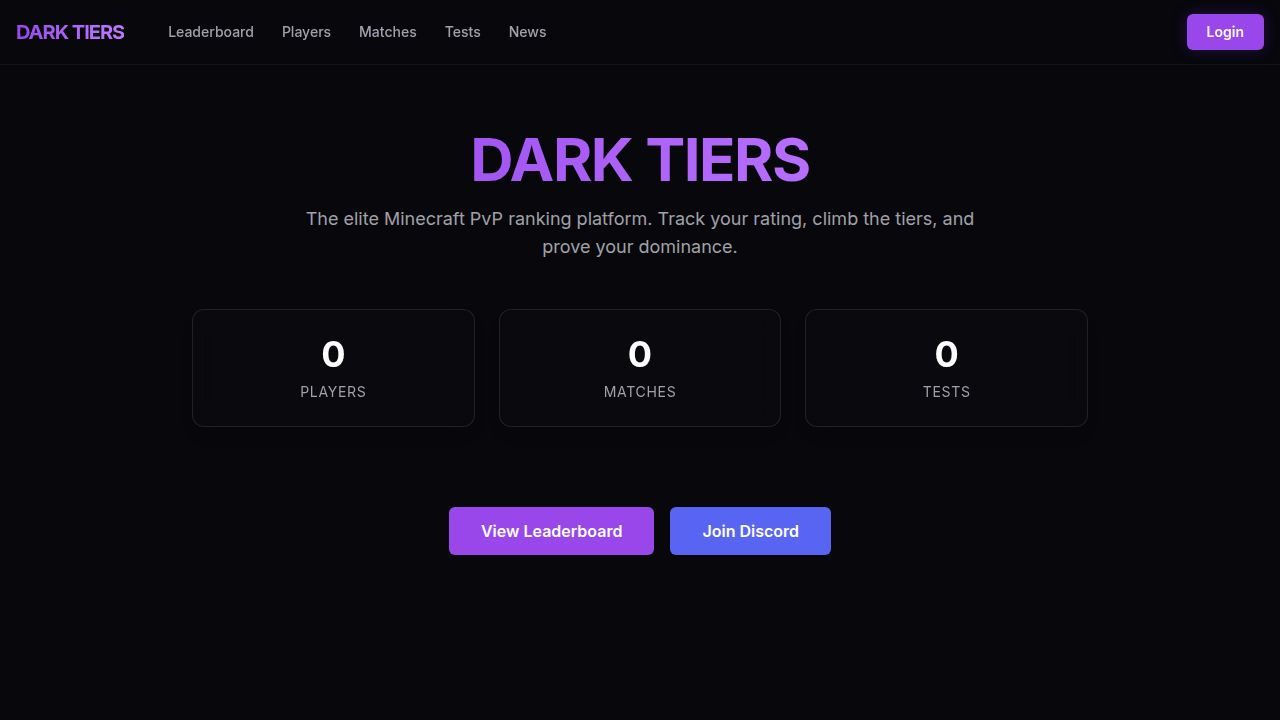
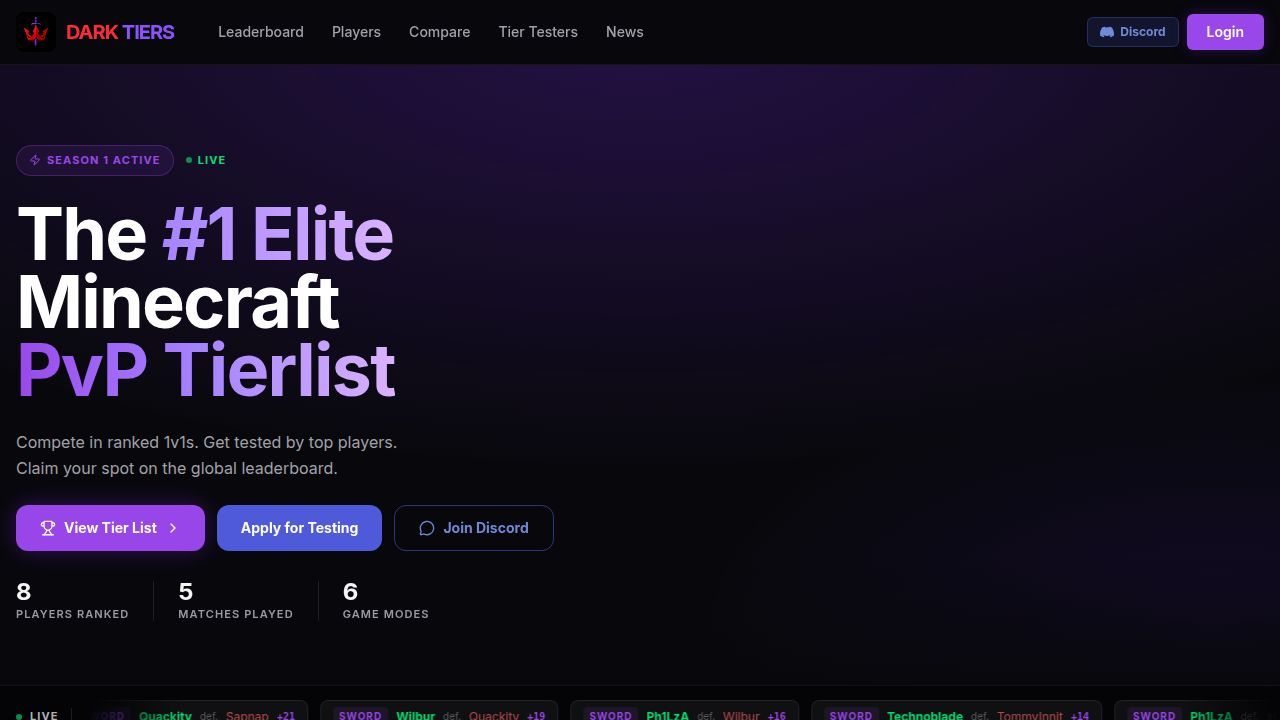
Improve navigation, player visibility, and comparison features on the platform
Fix login page loading issues, update user roles for panel access, show all registered players, add a "Post Match" button to the leaderboard for staff, and expand player comparison stats.

Replit-Commit-Author: Agent
Replit-Commit-Session-Id: a8362994-371c-4b95-bb02-1b18eae9432b
Replit-Commit-Checkpoint-Type: full_checkpoint
Replit-Commit-Event-Id: 5d057f84-10ec-4e45-b045-3c5f8ef11e38
Replit-Commit-Screenshot-Url: https://storage.googleapis.com/screenshot-production-us-central1/2faf6743-2e21-4c0f-ada4-a5486e8c2a09/a8362994-371c-4b95-bb02-1b18eae9432b/W4jEmzD
Replit-Helium-Checkpoint-Created: true

diff --git a/artifacts/dark-tiers/src/pages/leaderboard.tsx b/artifacts/dark-tiers/src/pages/leaderboard.tsx
@@ -1,13 +1,104 @@
 import { useState, Fragment } from "react";
-import { useGetLeaderboard, useListGamemodes } from "@workspace/api-client-react";
-import { useQuery } from "@tanstack/react-query";
+import { useGetLeaderboard, useListGamemodes, useGetMe, useCreateMatch, useListPlayers } from "@workspace/api-client-react";
+import { useQuery, useQueryClient } from "@tanstack/react-query";
 import { Link } from "wouter";
 import { TierBadge } from "@/components/ui/tier-badge";
 import { Input } from "@/components/ui/input";
 import { Skeleton } from "@/components/ui/skeleton";
-import { Search } from "lucide-react";
+import { Button } from "@/components/ui/button";
+import { Select, SelectContent, SelectItem, SelectTrigger, SelectValue } from "@/components/ui/select";
+import { Search, Plus, X, Swords } from "lucide-react";
 import { motion, AnimatePresence } from "framer-motion";
 import { GamemodeIcon, trophyImg } from "@/lib/gamemode-icons";
+
+const ROLE_RANK: Record<string, number> = { user: 0, tester: 1, moderator: 2, admin: 3, owner: 4 };
+function isStaff(role: string) { return (ROLE_RANK[role] ?? 0) >= 1; }
+
+function PostMatchModal({ onClose }: { onClose: () => void }) {
+  const { data: players } = useListPlayers({ limit: 200 });
+  const { data: gamemodes } = useListGamemodes();
+  const createMatch = useCreateMatch();
+  const qc = useQueryClient();
+  const [form, setForm] = useState({ gamemodeId: "", player1Id: "", player2Id: "", winnerId: "", score: "" });
+  const [creating, setCreating] = useState(false);
+  const [error, setError] = useState<string | null>(null);
+  const [done, setDone] = useState(false);
+
+  const eligible = [form.player1Id, form.player2Id].filter(Boolean).map(id => players?.players?.find(p => p.id === +id)).filter(Boolean);
+
+  const handleSubmit = async (e: React.FormEvent) => {
+    e.preventDefault();
+    if (!form.gamemodeId || !form.player1Id || !form.player2Id || !form.winnerId || !form.score) {
+      setError("All fields are required."); return;
+    }
+    setCreating(true); setError(null);
+    try {
+      await createMatch.mutateAsync({ data: { gamemodeId: +form.gamemodeId, player1Id: +form.player1Id, player2Id: +form.player2Id, winnerId: +form.winnerId, score: form.score } });
+      qc.invalidateQueries();
+      setDone(true);
+      setTimeout(onClose, 1200);
+    } catch (err: any) {
+      setError(err.message ?? "Failed to create match.");
+    } finally { setCreating(false); }
+  };
+
+  return (
+    <div className="fixed inset-0 z-[999] flex items-center justify-center p-4">
+      <div className="absolute inset-0 bg-black/70 backdrop-blur-sm" onClick={onClose} />
+      <motion.div
+        initial={{ opacity: 0, scale: 0.95, y: 16 }}
+        animate={{ opacity: 1, scale: 1, y: 0 }}
+        exit={{ opacity: 0, scale: 0.95, y: 8 }}
+        transition={{ duration: 0.2 }}
+        className="relative z-10 glass-card border border-white/10 rounded-2xl p-6 w-full max-w-lg"
+      >
+        <div className="flex items-center justify-between mb-5">
+          <div className="flex items-center gap-2">
+            <Swords className="w-5 h-5 text-primary" />
+            <h2 className="text-lg font-black text-white">Post Match Result</h2>
+          </div>
+          <button onClick={onClose} className="w-7 h-7 rounded-lg hover:bg-white/10 flex items-center justify-center text-muted-foreground hover:text-white transition-colors">
+            <X className="w-4 h-4" />
+          </button>
+        </div>
+
+        {done ? (
+          <div className="py-6 text-center">
+            <div className="text-green-400 font-black text-lg mb-1">Match Posted!</div>
+            <p className="text-sm text-muted-foreground">ELO updated and leaderboard refreshed.</p>
+          </div>
+        ) : (
+          <form onSubmit={handleSubmit} className="flex flex-col gap-4">
+            <div className="grid grid-cols-2 gap-3">
+              {[
+                { label: "Gamemode", field: "gamemodeId", items: gamemodes?.map(g => ({ id: g.id, name: g.name })) },
+                { label: "Player 1", field: "player1Id", items: players?.players?.map(p => ({ id: p.id, name: p.username })) },
+                { label: "Player 2", field: "player2Id", items: players?.players?.map(p => ({ id: p.id, name: p.username })) },
+                { label: "Winner", field: "winnerId", items: eligible?.map((p: any) => ({ id: p.id, name: p.username })) },
+              ].map(({ label, field, items }) => (
+                <div key={field}>
+                  <label className="text-[10px] font-bold uppercase tracking-widest text-muted-foreground mb-1 block">{label}</label>
+                  <Select value={(form as any)[field]} onValueChange={v => setForm(f => ({ ...f, [field]: v }))}>
+                    <SelectTrigger className="bg-black/40 border-white/10 text-white text-sm h-9"><SelectValue placeholder="Select..." /></SelectTrigger>
+                    <SelectContent>{items?.map((i: any) => <SelectItem key={i.id} value={String(i.id)}>{i.name}</SelectItem>)}</SelectContent>
+                  </Select>
+                </div>
+              ))}
+            </div>
+            <div>
+              <label className="text-[10px] font-bold uppercase tracking-widest text-muted-foreground mb-1 block">Score (e.g. 3-1)</label>
+              <Input placeholder="3-1" value={form.score} onChange={e => setForm(f => ({ ...f, score: e.target.value }))} className="bg-black/40 border-white/10 text-white h-9 text-sm" />
+            </div>
+            {error && <p className="text-red-400 text-sm bg-red-500/10 border border-red-500/20 rounded-lg px-3 py-2">{error}</p>}
+            <Button type="submit" disabled={creating} className="w-full bg-primary hover:bg-primary/90 text-white font-bold">
+              {creating ? "Posting..." : "Post Match"}
+            </Button>
+          </form>
+        )}
+      </motion.div>
+    </div>
+  );
+}
 
 /* ── Types ───────────────────────────────────────────────── */
 type OverallPlayer = {
@@ -216,6 +307,10 @@ function TierColumn({
 export default function Leaderboard() {
   const [view, setView] = useState<string>("overall");
   const [search, setSearch] = useState("");
+  const [postMatchOpen, setPostMatchOpen] = useState(false);
+
+  const { data: me } = useGetMe();
+  const myRole = (me as any)?.role ?? "user";
 
   const { data: gamemodes } = useListGamemodes();
 
@@ -263,7 +358,7 @@ export default function Leaderboard() {
       <div className="w-full max-w-screen-xl px-4 flex flex-col gap-0">
 
         {/* Header */}
-        <div className="flex items-end justify-between mb-5">
+        <div className="flex items-end justify-between mb-5 gap-3 flex-wrap">
           <div>
             <h1 className="text-2xl font-black text-white tracking-tight">Rankings</h1>
             <p className="text-xs text-muted-foreground/60 mt-1">
@@ -272,16 +367,32 @@ export default function Leaderboard() {
                 : `${tableData?.total ?? 0} players · ${tabs.find(t => t.id === view)?.label ?? ""}`}
             </p>
           </div>
-          <div className="relative w-52 flex-shrink-0">
-            <Search className="absolute left-2.5 top-2.5 h-3.5 w-3.5 text-muted-foreground/50" />
-            <Input
-              placeholder="Search player..."
-              className="pl-8 h-8 text-xs bg-card border-border/40 text-white placeholder:text-muted-foreground/40"
-              value={search}
-              onChange={e => setSearch(e.target.value)}
-            />
+          <div className="flex items-center gap-2 flex-shrink-0">
+            {isStaff(myRole) && (
+              <Button
+                size="sm"
+                onClick={() => setPostMatchOpen(true)}
+                className="bg-primary/20 hover:bg-primary/30 text-primary border border-primary/30 text-xs h-8 gap-1.5"
+              >
+                <Plus className="w-3.5 h-3.5" />
+                Post Match
+              </Button>
+            )}
+            <div className="relative w-48">
+              <Search className="absolute left-2.5 top-2.5 h-3.5 w-3.5 text-muted-foreground/50" />
+              <Input
+                placeholder="Search player..."
+                className="pl-8 h-8 text-xs bg-card border-border/40 text-white placeholder:text-muted-foreground/40"
+                value={search}
+                onChange={e => setSearch(e.target.value)}
+              />
+            </div>
           </div>
         </div>
+
+        <AnimatePresence>
+          {postMatchOpen && <PostMatchModal onClose={() => setPostMatchOpen(false)} />}
+        </AnimatePresence>
 
         {/* Gamemode tabs */}
         <div className="flex items-end overflow-x-auto scrollbar-none gap-0.5">

diff --git a/artifacts/dark-tiers/src/pages/compare.tsx b/artifacts/dark-tiers/src/pages/compare.tsx
@@ -408,6 +408,8 @@ export default function Compare() {
   const p2Total = (p2?.ratings ?? []).reduce((a: number, r: any) => a + (r.totalMatches ?? 0), 0);
   const p1Wins  = (p1?.ratings ?? []).reduce((a: number, r: any) => a + (r.wins ?? 0), 0);
   const p2Wins  = (p2?.ratings ?? []).reduce((a: number, r: any) => a + (r.wins ?? 0), 0);
+  const p1Losses = p1Total - p1Wins;
+  const p2Losses = p2Total - p2Wins;
   const p1Peak  = (p1?.ratings ?? []).reduce((a: number, r: any) => Math.max(a, r.peakRating ?? r.rating ?? 0), 0);
   const p2Peak  = (p2?.ratings ?? []).reduce((a: number, r: any) => Math.max(a, r.peakRating ?? r.rating ?? 0), 0);
   const p1Best  = (p1?.ratings ?? []).reduce((a: number, r: any) => Math.max(a, r.rating ?? 0), 0);
@@ -416,6 +418,43 @@ export default function Compare() {
   const p2WR    = pct(p2Wins, p2Total);
   const p1Ranked = (p1?.ratings ?? []).filter((r: any) => r.rating != null).length;
   const p2Ranked = (p2?.ratings ?? []).filter((r: any) => r.rating != null).length;
+
+  const getMostActive = (ratings: any[]) => {
+    if (!ratings?.length) return "—";
+    const best = ratings.reduce((a: any, r: any) => ((r.totalMatches ?? 0) > (a?.totalMatches ?? 0) ? r : a), null);
+    return best?.gamemodeName ?? "—";
+  };
+  const p1MostActive = getMostActive(p1?.ratings ?? []);
+  const p2MostActive = getMostActive(p2?.ratings ?? []);
+
+  const getJoinAge = (dateStr: string) => {
+    if (!dateStr) return "—";
+    const days = Math.floor((Date.now() - new Date(dateStr).getTime()) / 86400000);
+    if (days < 30) return `${days}d`;
+    if (days < 365) return `${Math.floor(days / 30)}mo`;
+    return `${Math.floor(days / 365)}yr`;
+  };
+  const p1Age = getJoinAge(p1?.createdAt);
+  const p2Age = getJoinAge(p2?.createdAt);
+
+  const p1HighestTier = (p1?.ratings ?? []).reduce((best: string | null, r: any) => {
+    if (!r.tierName) return best;
+    if (!best) return r.tierName;
+    const rankA = r.tierName.startsWith("HT") ? 0 : 1;
+    const numA = parseInt(r.tierName.replace(/[^0-9]/g, ""));
+    const rankB = best.startsWith("HT") ? 0 : 1;
+    const numB = parseInt(best.replace(/[^0-9]/g, ""));
+    return (numA < numB || (numA === numB && rankA < rankB)) ? r.tierName : best;
+  }, null) ?? "—";
+  const p2HighestTier = (p2?.ratings ?? []).reduce((best: string | null, r: any) => {
+    if (!r.tierName) return best;
+    if (!best) return r.tierName;
+    const rankA = r.tierName.startsWith("HT") ? 0 : 1;
+    const numA = parseInt(r.tierName.replace(/[^0-9]/g, ""));
+    const rankB = best.startsWith("HT") ? 0 : 1;
+    const numB = parseInt(best.replace(/[^0-9]/g, ""));
+    return (numA < numB || (numA === numB && rankA < rankB)) ? r.tierName : best;
+  }, null) ?? "—";
 
   return (
     <div className="min-h-screen text-foreground">
@@ -568,10 +607,14 @@ export default function Compare() {
                   </div>
                   <StatBlock label="Best Rating" left={p1Best || "—"} right={p2Best || "—"} />
                   <StatBlock label="Peak Rating" left={p1Peak || "—"} right={p2Peak || "—"} />
+                  <StatBlock label="Highest Tier" left={p1HighestTier} right={p2HighestTier} highlight="tie" />
                   <StatBlock label="Total Matches" left={p1Total} right={p2Total} />
                   <StatBlock label="Wins" left={p1Wins} right={p2Wins} />
+                  <StatBlock label="Losses" left={p1Losses} right={p2Losses} highlight={p1Losses < p2Losses ? "left" : p2Losses < p1Losses ? "right" : "tie"} />
                   <StatBlock label="Win Rate" left={`${p1WR}%`} right={`${p2WR}%`} />
                   <StatBlock label="Gamemodes" left={p1Ranked} right={p2Ranked} />
+                  <StatBlock label="Most Active" left={p1MostActive} right={p2MostActive} highlight="tie" />
+                  <StatBlock label="Account Age" left={p1Age} right={p2Age} highlight="tie" />
                 </div>
               </div>
 

diff --git a/artifacts/dark-tiers/src/components/layout/Navbar.tsx b/artifacts/dark-tiers/src/components/layout/Navbar.tsx
@@ -99,9 +99,10 @@ export function Navbar() {
 
           {user ? (
             <div className="hidden md:flex items-center gap-3">
-              {(user.role === "admin" || user.role === "owner") && (
+              {(["owner","admin","moderator","tester"] as string[]).includes(user.role) && (
                 <Link href="/admin" className="text-sm font-medium text-primary hover:text-primary/80 flex items-center gap-1 bg-primary/10 px-3 py-1.5 rounded-md transition-colors">
-                  <ShieldAlert className="w-4 h-4" /> <span>Admin</span>
+                  <ShieldAlert className="w-4 h-4" />
+                  <span>{user.role === "owner" ? "Owner Panel" : user.role === "admin" || user.role === "moderator" ? "Admin Panel" : "Staff Panel"}</span>
                 </Link>
               )}
               {/* Clickable avatar → profile page */}
@@ -180,13 +181,14 @@ export function Navbar() {
               <div className="border-t border-white/5 mt-2 pt-2">
                 {user ? (
                   <div className="flex flex-col gap-2">
-                    {(user.role === "admin" || user.role === "owner") && (
+                    {(["owner","admin","moderator","tester"] as string[]).includes(user.role) && (
                       <Link
                         href="/admin"
                         onClick={() => setMobileOpen(false)}
                         className="px-3 py-2.5 rounded-md text-sm font-medium text-primary bg-primary/10 flex items-center gap-2 transition-colors hover:bg-primary/20"
                       >
-                        <ShieldAlert className="w-4 h-4" /> Admin
+                        <ShieldAlert className="w-4 h-4" />
+                        {user.role === "owner" ? "Owner Panel" : user.role === "admin" || user.role === "moderator" ? "Admin Panel" : "Staff Panel"}
                       </Link>
                     )}
                     <div className="flex items-center justify-between px-3 py-2">

diff --git a/artifacts/dark-tiers/src/App.tsx b/artifacts/dark-tiers/src/App.tsx
@@ -36,13 +36,13 @@ function Router() {
     <div className="min-h-[100dvh] bg-background text-foreground flex flex-col font-sans">
       <Navbar />
       <main className="flex-1 flex flex-col">
-        <AnimatePresence mode="wait">
+        <AnimatePresence>
           <motion.div
             key={location}
             initial={{ opacity: 0 }}
             animate={{ opacity: 1 }}
-            exit={{ opacity: 0 }}
-            transition={{ duration: 0.15 }}
+            exit={{ opacity: 0, position: "absolute" } as any}
+            transition={{ duration: 0.12 }}
             className="flex-1 flex flex-col"
           >
             <Switch>

diff --git a/artifacts/dark-tiers/src/pages/players.tsx b/artifacts/dark-tiers/src/pages/players.tsx
@@ -72,8 +72,7 @@ export default function Players() {
   });
 
   const filtered = (data?.players ?? []).filter(p =>
-    p.rankedGamemodes > 0 &&
-    (!search || p.username.toLowerCase().includes(search.toLowerCase()))
+    !search || p.username.toLowerCase().includes(search.toLowerCase())
   );
 
   return (